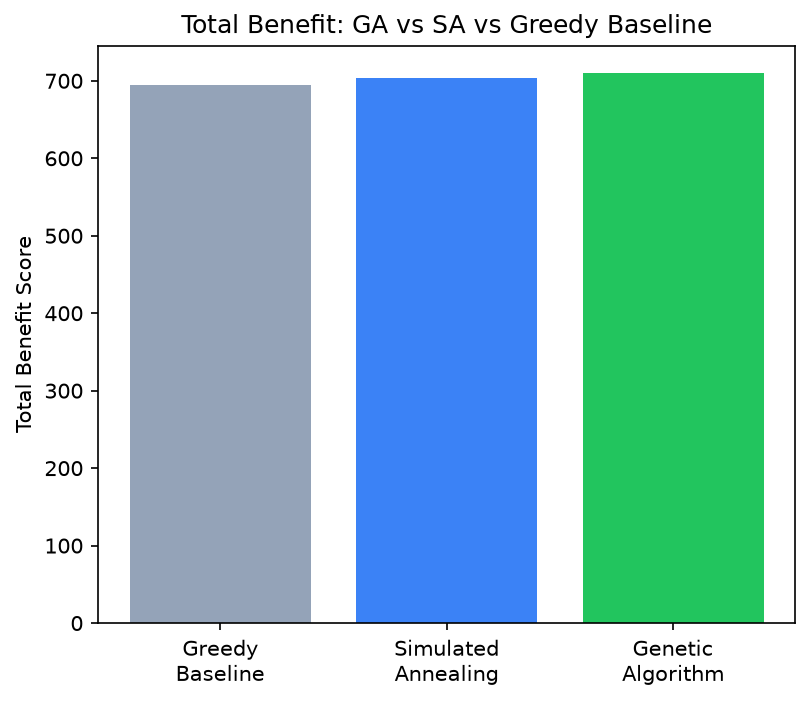
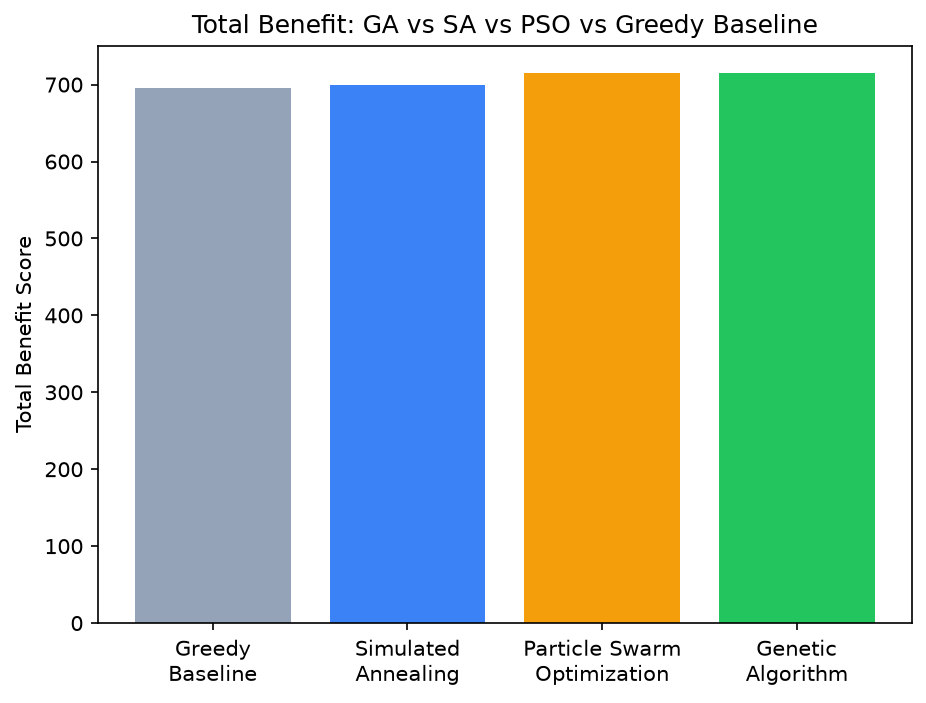
Add Particle Swarm Optimization as third algorithm

diff --git a/ga_optimizer.py b/ga_optimizer.py
@@ -224,6 +224,66 @@ def simulated_annealing(initial_temp=1000, cooling_rate=0.995, iterations=2000):
 
     return best, best_score, history
 
+# ---------- ALGORITHM 3: PARTICLE SWARM OPTIMIZATION (Binary PSO) ----------
+def particle_swarm_optimization(n_particles=30, iterations=150, w=0.7, c1=1.5, c2=1.5):
+    """
+    Think of a flock of birds searching for the best spot:
+    - Each 'particle' = one candidate solution (a row of 0s and 1s)
+    - Each particle has a 'velocity' = how likely each bit is to flip
+    - Each particle remembers its OWN best solution ever found (personal best)
+    - The whole swarm remembers the BEST solution anyone has found (global best)
+    - Every step, each particle's velocity gets pulled toward both its own best
+      AND the swarm's best - so the swarm gradually clusters around good answers.
+
+    Since our solutions are binary (0/1), we use "binary PSO": velocity gets
+    squashed into a probability (via sigmoid), and we roll a random number to
+    decide if each bit turns on or off.
+    """
+    def sigmoid(x):
+        return 1 / (1 + np.exp(-x))
+
+    # each particle starts as a random position + random velocity
+    positions = [np.random.randint(0, 2, n_projects) for _ in range(n_particles)]
+    velocities = [np.random.uniform(-1, 1, n_projects) for _ in range(n_particles)]
+
+    personal_best = [p.copy() for p in positions]
+    personal_best_scores = [fitness(p) for p in positions]
+
+    global_best_idx = np.argmax(personal_best_scores)
+    global_best = personal_best[global_best_idx].copy()
+    global_best_score = personal_best_scores[global_best_idx]
+
+    history = [global_best_score]
+
+    for it in range(iterations):
+        for i in range(n_particles):
+            r1, r2 = np.random.rand(n_projects), np.random.rand(n_projects)
+
+            # update velocity: blend of "keep going the way you were" (w),
+            # "pull toward your own best" (c1), and "pull toward swarm's best" (c2)
+            velocities[i] = (
+                w * velocities[i]
+                + c1 * r1 * (personal_best[i] - positions[i])
+                + c2 * r2 * (global_best - positions[i])
+            )
+
+            # convert velocity into a probability, then flip a coin per project
+            probs = sigmoid(velocities[i])
+            positions[i] = (np.random.rand(n_projects) < probs).astype(int)
+
+            score = fitness(positions[i])
+            if score > personal_best_scores[i]:
+                personal_best[i] = positions[i].copy()
+                personal_best_scores[i] = score
+
+            if score > global_best_score:
+                global_best = positions[i].copy()
+                global_best_score = score
+
+        history.append(global_best_score)
+
+    return global_best, global_best_score, history
+
 # ---------- STEP 8: SHOW THE RESULTS ----------
 if __name__ == "__main__":
     best_solution, best_score, history = run_ga()
@@ -249,13 +309,21 @@ if __name__ == "__main__":
     sa_selected = data[sa_solution == 1]
     sa_benefit = sa_selected["benefit"].sum()
 
+    # ---------- RUN PARTICLE SWARM OPTIMIZATION ----------
+    pso_solution, pso_score, pso_history = particle_swarm_optimization()
+    pso_selected = data[pso_solution == 1]
+    pso_benefit = pso_selected["benefit"].sum()
+    pso_violations = count_dependency_violations(pso_solution)
+
     ga_improvement = ((total_benefit - greedy_benefit) / greedy_benefit) * 100
     sa_improvement = ((sa_benefit - greedy_benefit) / greedy_benefit) * 100
+    pso_improvement = ((pso_benefit - greedy_benefit) / greedy_benefit) * 100
 
-    print("\n===== COMPARISON: GA vs SA vs GREEDY BASELINE =====")
+    print("\n===== COMPARISON: GA vs SA vs PSO vs GREEDY BASELINE =====")
     print(f"Greedy baseline benefit: {greedy_benefit}")
     print(f"GA benefit:              {total_benefit}  ({ga_improvement:.1f}% vs greedy)")
     print(f"SA benefit:              {sa_benefit}  ({sa_improvement:.1f}% vs greedy)")
+    print(f"PSO benefit:             {pso_benefit}  ({pso_improvement:.1f}% vs greedy, {pso_violations} dependency violations)")
 
     # ---------- CHART 1: HOW THE GA IMPROVED OVER TIME ----------
     plt.figure(figsize=(8, 5))
@@ -267,12 +335,12 @@ if __name__ == "__main__":
     plt.savefig("convergence_chart.png", dpi=150, bbox_inches="tight")
     print("\nSaved chart: convergence_chart.png")
 
-    # ---------- CHART 2: GA vs SA vs GREEDY BAR COMPARISON ----------
-    plt.figure(figsize=(6, 5))
-    plt.bar(["Greedy\nBaseline", "Simulated\nAnnealing", "Genetic\nAlgorithm"],
-            [greedy_benefit, sa_benefit, total_benefit],
-            color=["#94a3b8", "#3b82f6", "#22c55e"])
-    plt.title("Total Benefit: GA vs SA vs Greedy Baseline")
+    # ---------- CHART 2: GA vs SA vs PSO vs GREEDY BAR COMPARISON ----------
+    plt.figure(figsize=(7, 5))
+    plt.bar(["Greedy\nBaseline", "Simulated\nAnnealing", "Particle Swarm\nOptimization", "Genetic\nAlgorithm"],
+            [greedy_benefit, sa_benefit, pso_benefit, total_benefit],
+            color=["#94a3b8", "#3b82f6", "#f59e0b", "#22c55e"])
+    plt.title("Total Benefit: GA vs SA vs PSO vs Greedy Baseline")
     plt.ylabel("Total Benefit Score")
     plt.savefig("comparison_chart.png", dpi=150, bbox_inches="tight")
     print("Saved chart: comparison_chart.png")
